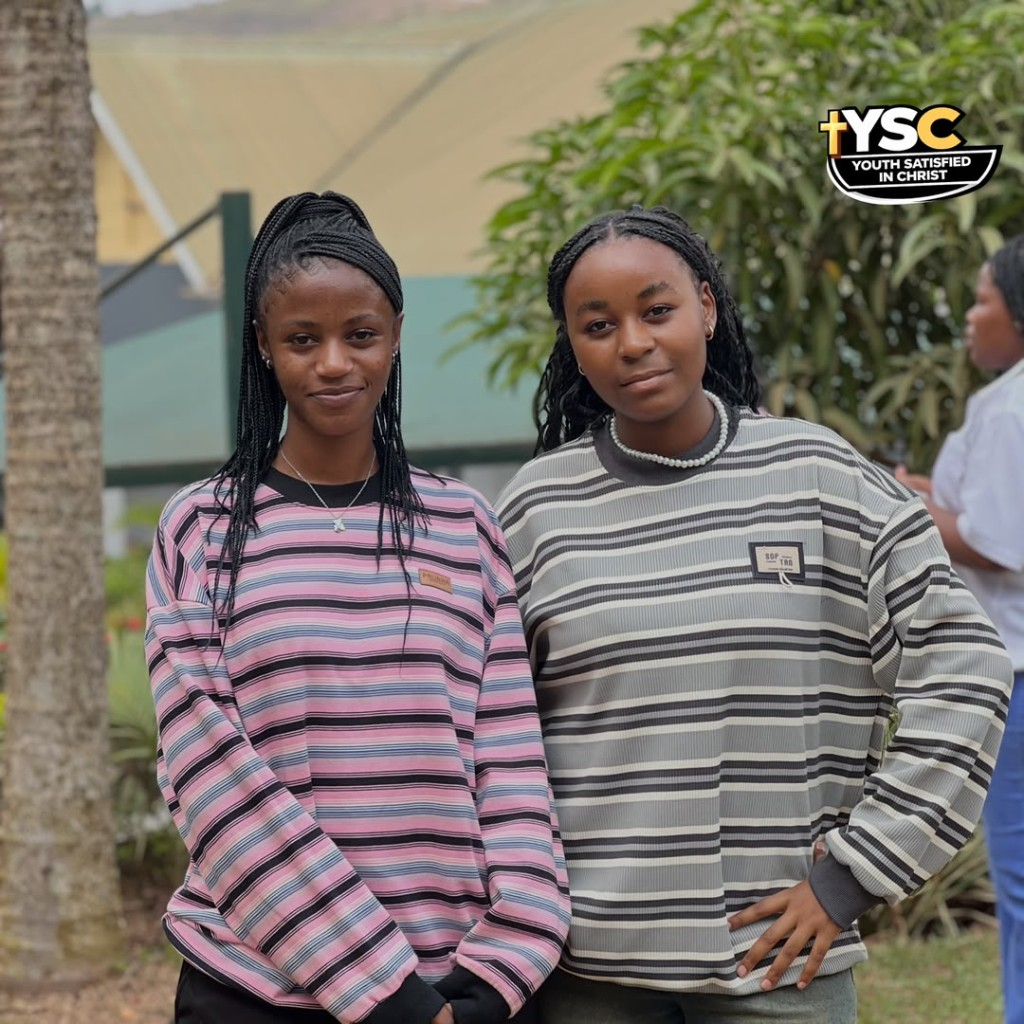
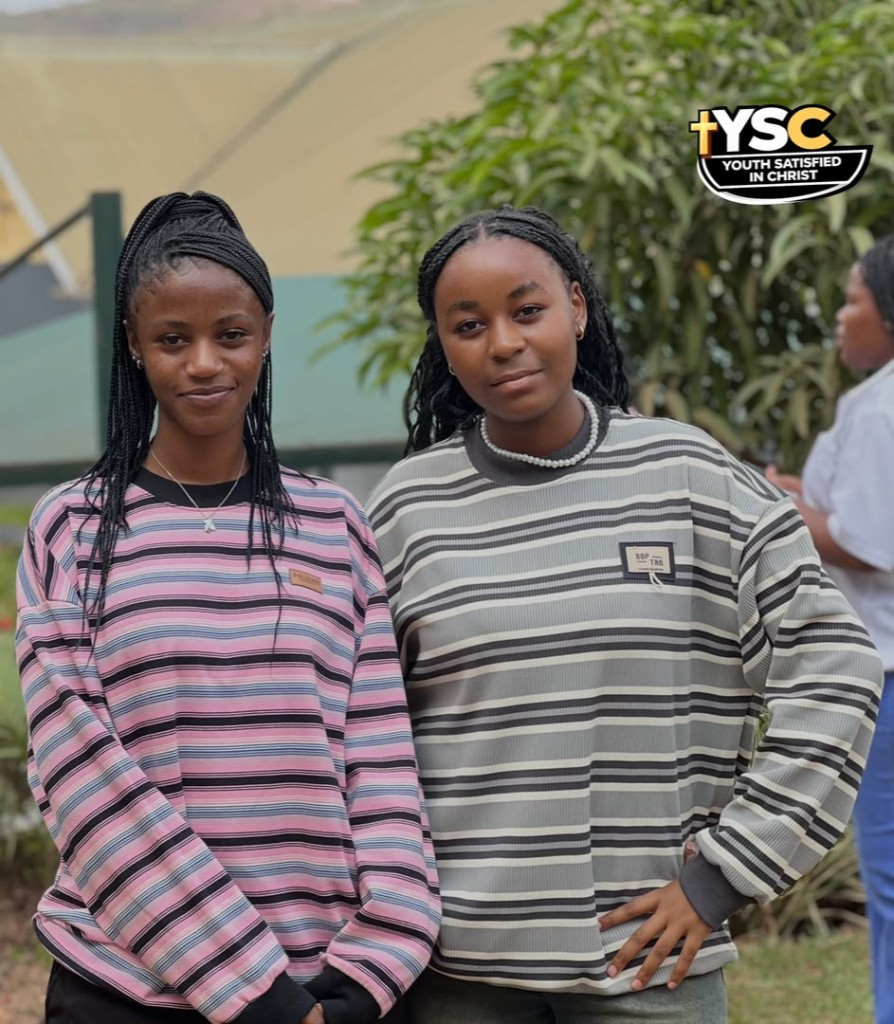
Update landing hero photo and tighten the site header bar.
Swap in the new two-women portrait for the landing hero and slightly reduce header height and logo sizing for a leaner top bar.

diff --git a/src/index.css b/src/index.css
@@ -314,16 +314,16 @@ img {
 .site-header-bar .site-logo-img {
   display: block;
   flex-shrink: 0;
-  width: clamp(6rem, 28vw, 7.5rem);
+  width: clamp(5.5rem, 26vw, 6.75rem);
   height: auto;
   max-width: none;
-  max-height: clamp(6rem, 28vw, 7.5rem);
+  max-height: clamp(5.5rem, 26vw, 6.75rem);
   object-fit: contain;
 }
 
 [data-theme='light'] .site-header-bar .site-logo-img {
-  width: clamp(6.125rem, 30vw, 7.75rem);
-  max-height: clamp(4.25rem, 20vw, 5.5rem);
+  width: clamp(5.625rem, 28vw, 7rem);
+  max-height: clamp(3.85rem, 18vw, 4.85rem);
   object-fit: contain;
 }
 
@@ -377,7 +377,7 @@ img {
 }
 
 :root {
-  --site-header-height: calc(max(env(safe-area-inset-top, 0px), 0px) + 2.5rem);
+  --site-header-height: calc(max(env(safe-area-inset-top, 0px), 0px) + 2.125rem);
 }
 
 /* Fixed top bar — always solid and visible while scrolling */
